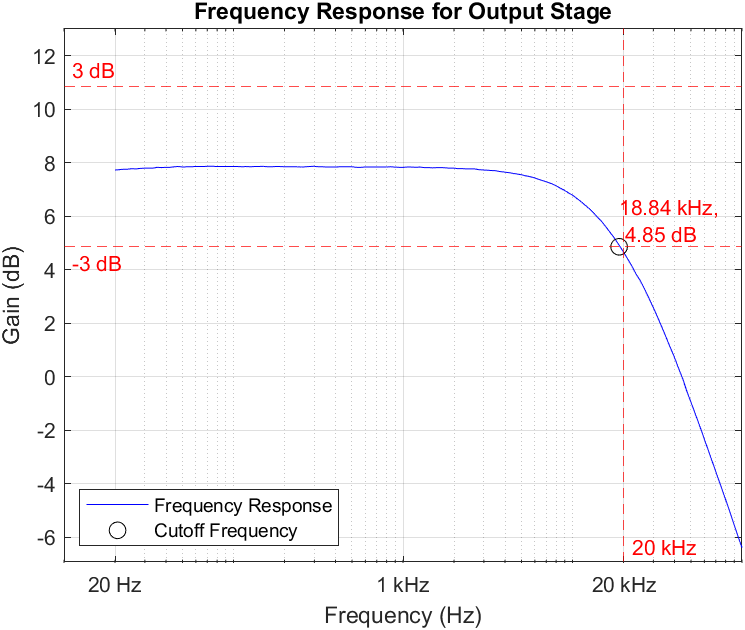
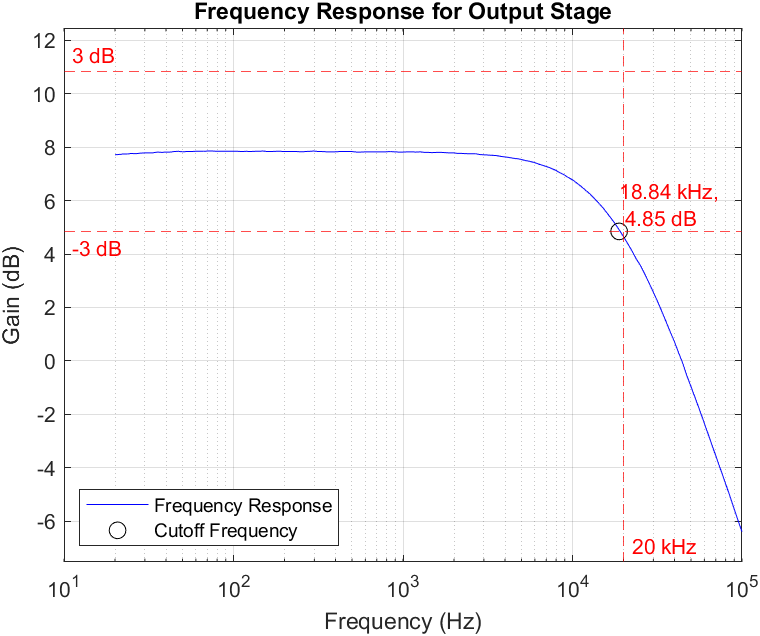
:)

diff --git a/dsp_board/test_dsp_board/pre_input_figure.m b/dsp_board/test_dsp_board/pre_input_figure.m
@@ -29,8 +29,8 @@ xlabel('Frequency (Hz)');
 ylabel('Gain (dB)');
 title('Frequency Response for Output Stage');
 grid on;
-xticks([20 1e3 2e4]);
-xticklabels({'20 Hz', '1 kHz', '20 kHz'});
+%xticks([20 1e3 2e4]);
+%xticklabels({'20 Hz', '1 kHz', '20 kHz'});
 xline(20000, '--r', '20 kHz', ...
     'LabelOrientation', 'horizontal', ...
     'LabelVerticalAlignment', 'bottom', ...

diff --git a/gitfigures/system_design/analog_frontend/amplifier_frequency_response_test/pre_input_figure.m b/gitfigures/system_design/analog_frontend/amplifier_frequency_response_test/pre_input_figure.m
@@ -29,8 +29,8 @@ xlabel('Frequency (Hz)');
 ylabel('Gain (dB)');
 title('Frequency Response for Output Stage');
 grid on;
-xticks([20 1e3 2e4]);
-xticklabels({'20 Hz', '1 kHz', '20 kHz'});
+%xticks([20 1e3 2e4]);
+%xticklabels({'20 Hz', '1 kHz', '20 kHz'});
 xline(20000, '--r', '20 kHz', ...
     'LabelOrientation', 'horizontal', ...
     'LabelVerticalAlignment', 'bottom', ...
